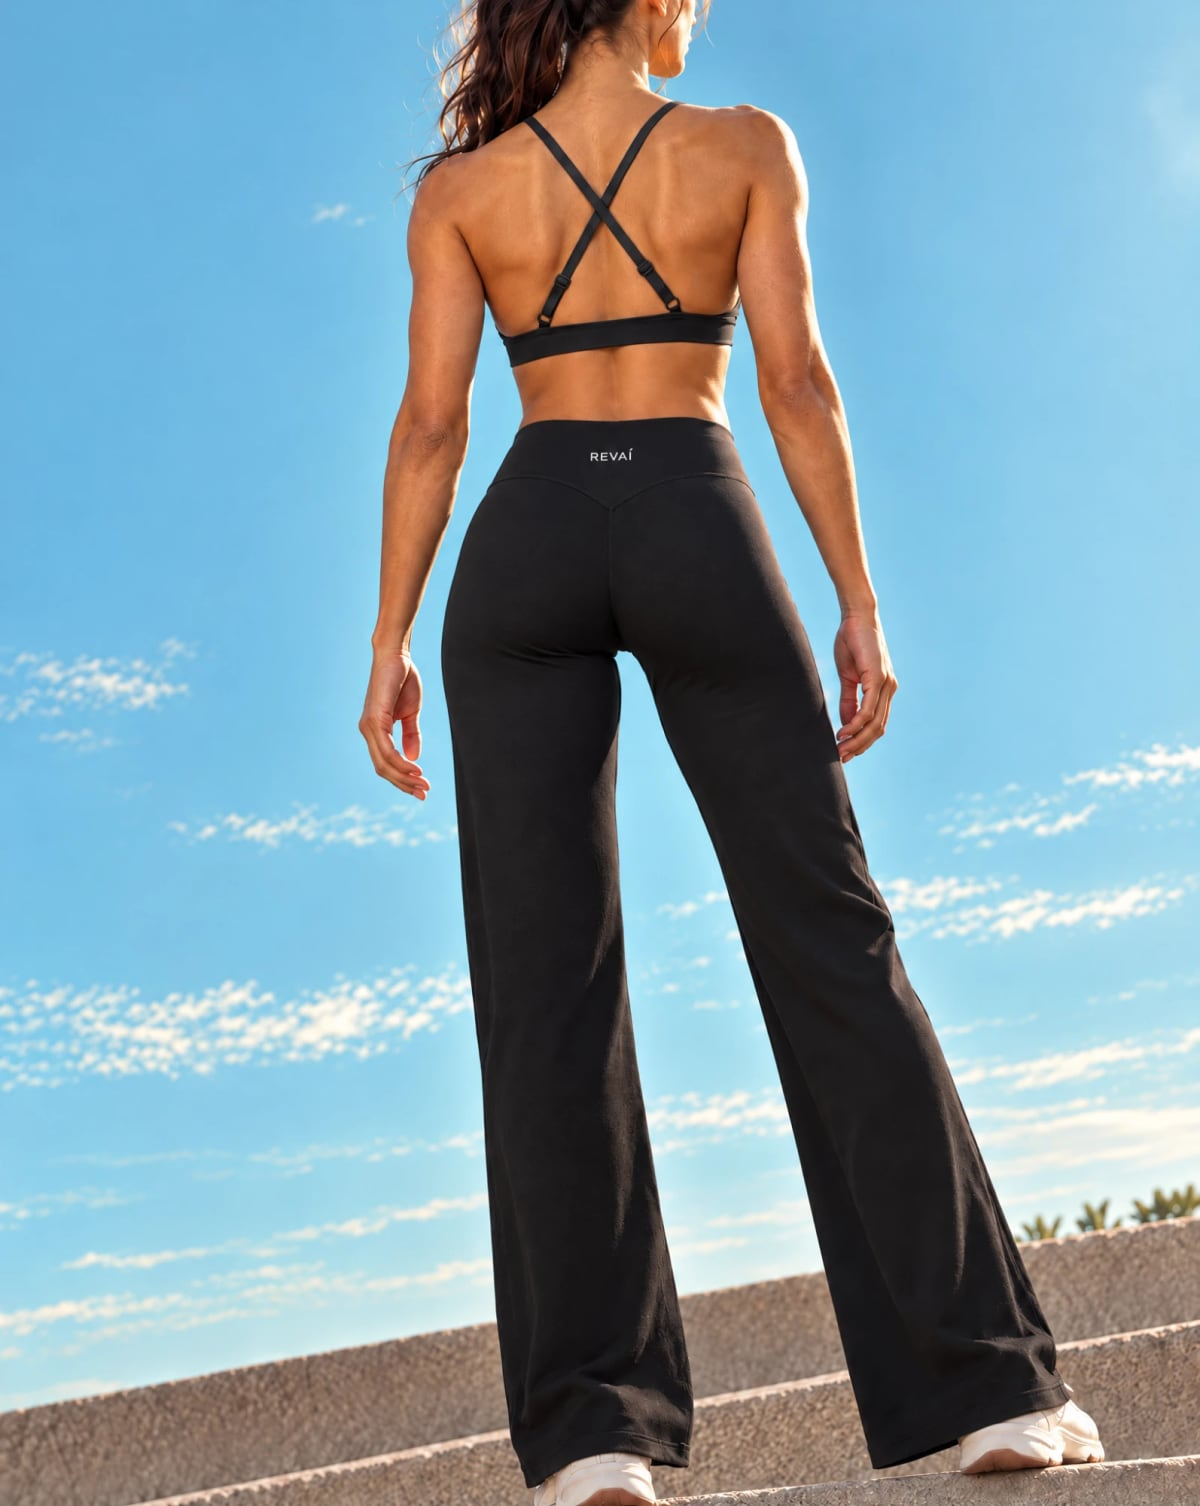
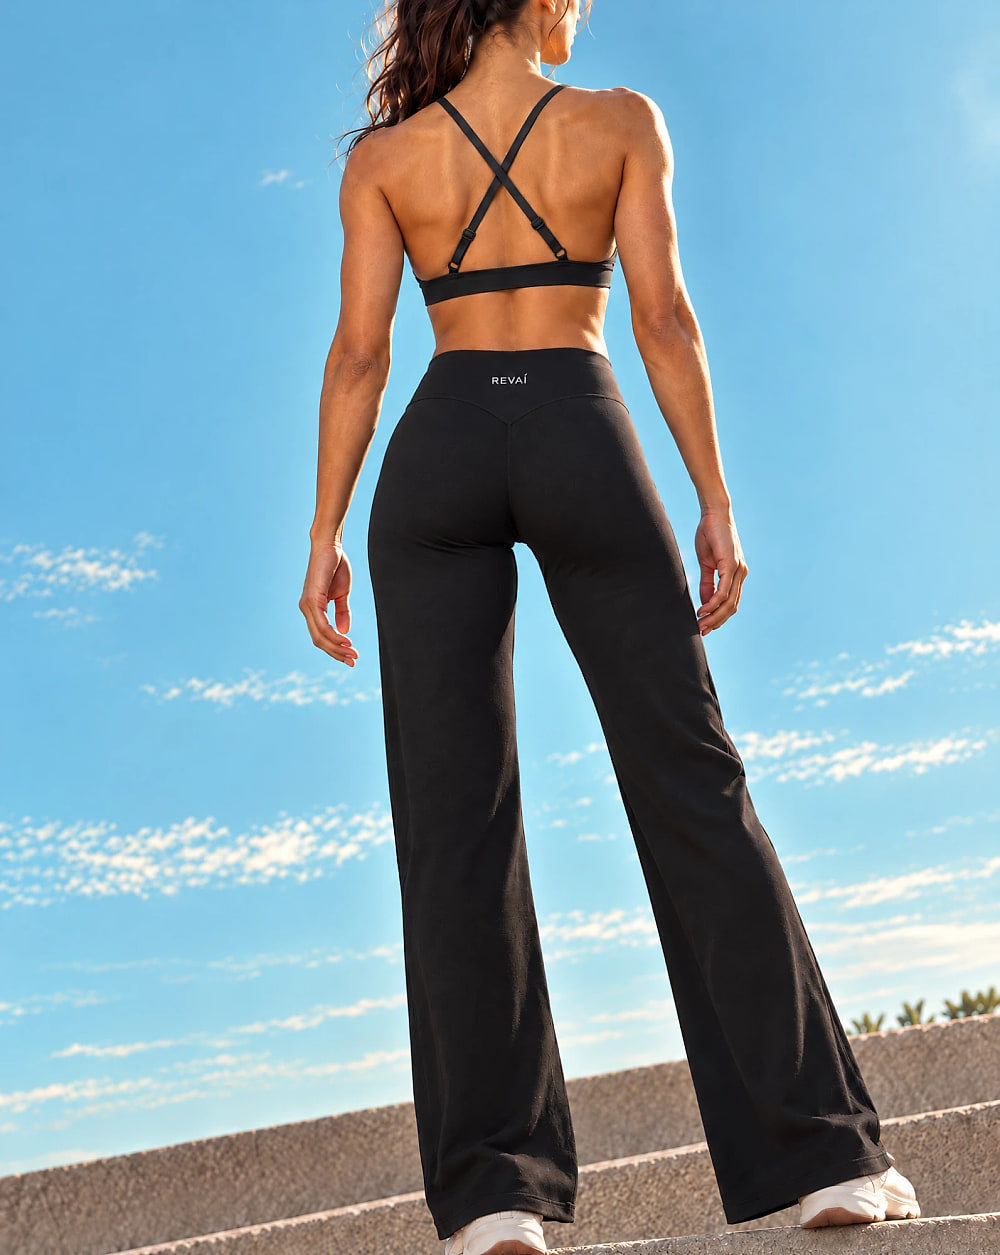
Homepage: photo row back to 46rem; R watermark further right (right -3%, html overflow-x clip); the three photos re-exported from source with light sharpening (1000px, q88, 4:4:4)

diff --git a/index.html b/index.html
@@ -151,12 +151,14 @@
     /* Watermark on the PAGE, not just the hero (27 Oct 2026, Yumna): starts under the header and runs down
        behind the photos and the philosophy. It sits at z-index 0; the hero, photo row, philosophy and footer
        are lifted to z-index 1 so the R is always behind them (the photos are opaque, so it never tints them). */
-    .hp-plate{position:absolute;right:8%;top:64px;height:min(118vh,1150px);width:auto;opacity:.13;pointer-events:none;
+    .hp-plate{position:absolute;right:-3%;top:64px;height:min(118vh,1150px);width:auto;opacity:.13;pointer-events:none;
       animation:hpPlate .9s .2s ease-out both;z-index:0}
     @keyframes hpPlate{from{opacity:0;transform:scale(1.04)}to{opacity:.13;transform:none}}
     @media(prefers-reduced-motion:reduce){.hp-plate{animation:none;opacity:.13}}
     @media(max-width:767px){.hp-plate{right:0;height:min(82vh,640px)}} /* right:0, never negative: the page has no overflow-x guard, so a negative right would add sideways scroll */
     #home-hero,.hp-photo,.hp-who,footer{position:relative;z-index:1}
+    /* The R hangs slightly off the right edge (27 Oct 2026, Yumna: "more to the right"); clip stops that adding sideways scroll. */
+    html{overflow-x:clip}
     #home-hero{background:transparent!important}
     /* Hero writing smaller than the site-wide .t-hero (27 Oct 2026, Yumna). */
     #home-hero h1.t-hero{font-size:clamp(22px,2.6vw,30px)!important}
@@ -208,9 +210,9 @@
     .hp-best a:hover .ph img{transform:scale(1.025)}
     .hp-best .nm{margin-top:16px;font-size:clamp(15px,1.25vw,18px);font-weight:400;color:#4a4a4a;letter-spacing:.005em}
     /* Three small photos in one row above the philosophy (27 Oct 2026, Yumna): man, woman, Flared Leggings.
-       Same 4:5 shape on every screen size; the row is capped at 54rem (was 46rem) so each photo stays small. The studio
+       Same 4:5 shape on every screen size; the row is capped at 46rem so each photo stays small. The studio
        shot is square, so it is trimmed at the sides (object-position keeps her face, the shoe and the bottle). */
-    .hp-photo{padding:clamp(12px,1.6vw,24px) 16px clamp(24px,3vw,40px);display:grid;grid-template-columns:repeat(3,1fr);gap:clamp(6px,1vw,12px);max-width:54rem;margin:0 auto;box-sizing:content-box}
+    .hp-photo{padding:clamp(12px,1.6vw,24px) 16px clamp(24px,3vw,40px);display:grid;grid-template-columns:repeat(3,1fr);gap:clamp(6px,1vw,12px);max-width:46rem;margin:0 auto;box-sizing:content-box}
     .hp-photo img{display:block;width:100%;height:100%;aspect-ratio:4/5;object-fit:cover}
     .hp-photo img.studio{object-position:40% 50%}
     /* Philosophy (14 Oct 2026, option 5): site font, small title, narrow column, rule sign-off */
@@ -326,7 +328,7 @@
   <!-- COLLECTION 01 row removed 27 Oct 2026 (Yumna). Markup parked in _parked/collection01-row-2026-10-27.html and in git history. -->
 
   <!-- Three small photos above the philosophy (27 Oct 2026) -->
-  <section class="hp-photo"><img class="fu" src="images/home-track.jpg" alt="Man in a black REVAÍ T-shirt and shorts standing on a running track" width="1200" height="1506" loading="lazy" decoding="async"><img class="fu d1 studio" src="images/home-studio.jpg" alt="Woman in a black REVAÍ sports bra and leggings sitting on a studio floor" width="1200" height="1200" loading="lazy" decoding="async"><img class="fu d2" src="images/home-flared-bright.jpg" alt="Woman in black REVAÍ Flared Leggings and a sports bra on outdoor steps, seen from behind" width="1200" height="1506" loading="lazy" decoding="async"></section>
+  <section class="hp-photo"><img class="fu" src="images/home-track.jpg" alt="Man in a black REVAÍ T-shirt and shorts standing on a running track" width="1000" height="1255" loading="lazy" decoding="async"><img class="fu d1 studio" src="images/home-studio.jpg" alt="Woman in a black REVAÍ sports bra and leggings sitting on a studio floor" width="1000" height="1000" loading="lazy" decoding="async"><img class="fu d2" src="images/home-flared-bright.jpg" alt="Woman in black REVAÍ Flared Leggings and a sports bra on outdoor steps, seen from behind" width="1000" height="1255" loading="lazy" decoding="async"></section>
 
   <!-- THE REVAÍ PHILOSOPHY (14 Oct 2026) — new copy in the 7 Oct "Who we are" design; old copy in git history -->
   <section class="hp-who">
